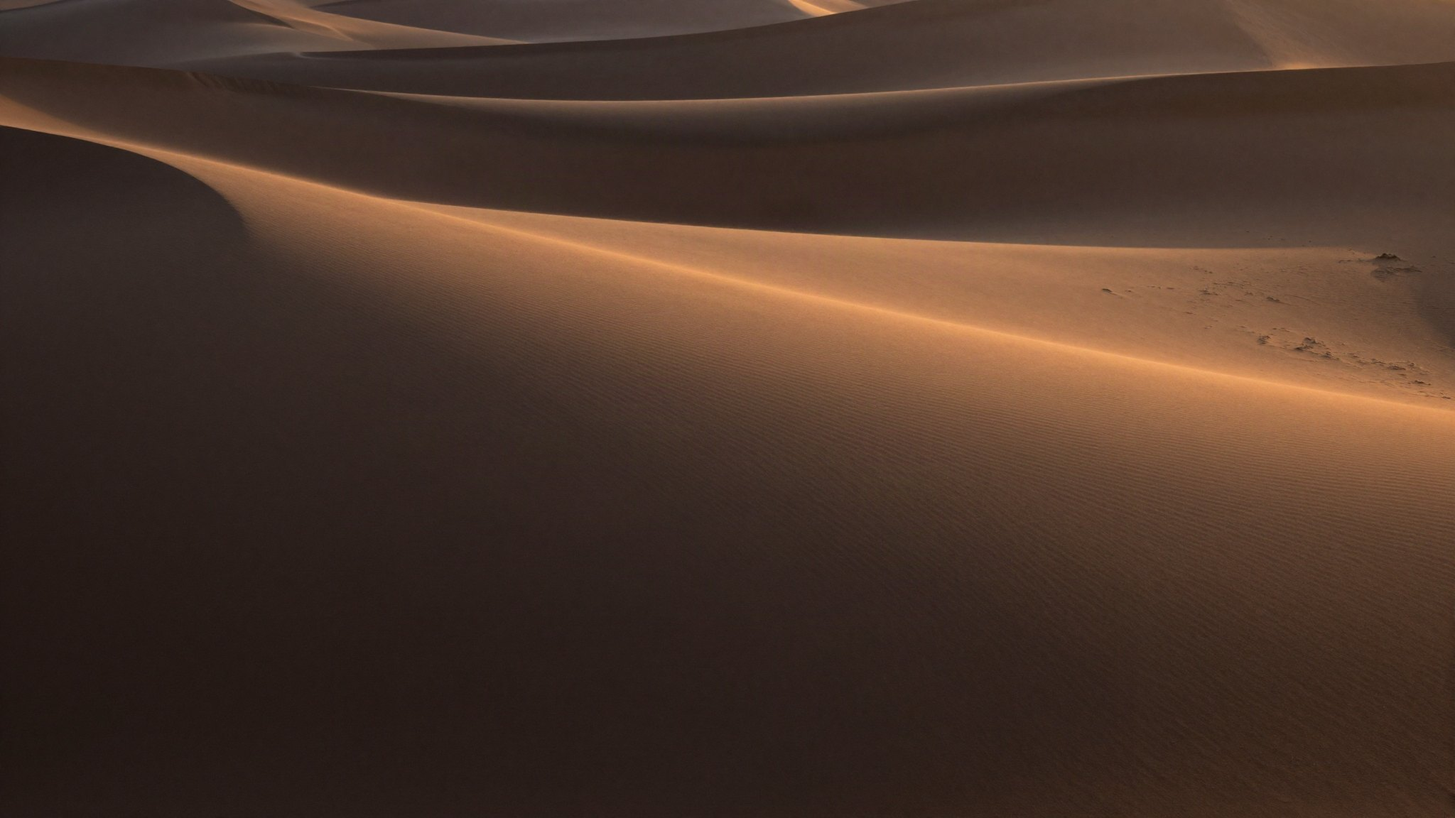
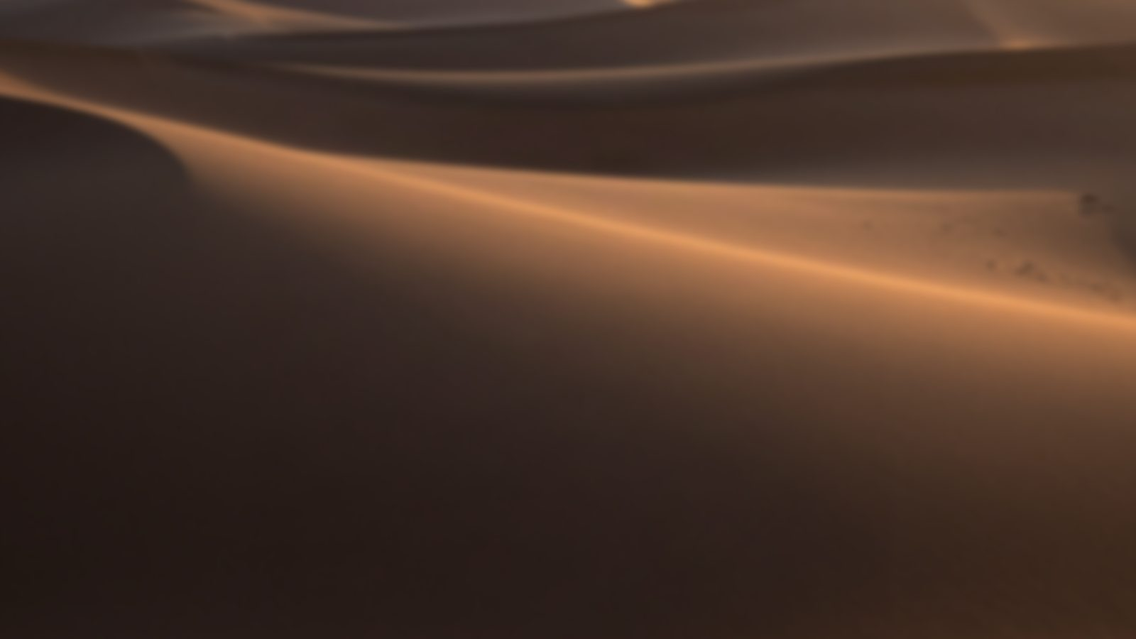
Hero motion: triggered beats instead of a 1:1 scroll scrub
The scrubbed version felt jerky: it animated clip-path, filter and
box-shadow (repainted every frame), followed the mouse wheel's 100 px
steps with no smoothing, and stretched over one and a half screens.

Now, Apple-style, the hero pins for one screen and plays two beats that
run on their own once you scroll past a threshold: "lock in" (the ink
curtain falls, the windows sink away one by one) and "clarity" (the doc
rises and lights up). Scrolling back reverses them. Only transform and
opacity animate; the wallpaper blur is baked into the image (187 KB to
35 KB). Thresholds have hysteresis so the hero never flickers.

In a trace with the same wheel scrolling, paint work dropped from 28
paints (2.5 ms) to 9 (0.4 ms).

diff --git a/site/index.html b/site/index.html
@@ -16,7 +16,7 @@
 <main>
   <section class="hero" aria-labelledby="hero-title">
     <div class="stage">
-      <div class="curtain ba" aria-hidden="true"></div>
+      <div class="curtain" aria-hidden="true"></div>
 
       <header class="nav">
         <a class="logo" href="/" aria-label="Ortus">
@@ -36,15 +36,14 @@
         <div class="actions">
           <a class="cta" id="download" href="#download"><svg viewBox="0 0 24 24" aria-hidden="true"><path fill="currentColor" d="M12.152 6.896c-.948 0-2.415-1.078-3.96-1.04-2.04.027-3.91 1.183-4.961 3.014-2.117 3.675-.546 9.103 1.519 12.09 1.013 1.454 2.208 3.09 3.792 3.039 1.52-.065 2.09-.987 3.935-.987 1.831 0 2.35.987 3.96.948 1.637-.026 2.676-1.48 3.676-2.948 1.156-1.688 1.636-3.325 1.662-3.415-.039-.013-3.182-1.221-3.22-4.857-.026-3.04 2.48-4.494 2.597-4.559-1.429-2.09-3.623-2.324-4.39-2.376-2-.156-3.675 1.09-4.61 1.09zM15.53 3.83c.843-1.012 1.4-2.427 1.245-3.83-1.207.052-2.662.805-3.532 1.818-.78.896-1.454 2.338-1.273 3.714 1.338.104 2.715-.688 3.559-1.701"></path></svg>Download for Mac</a>
           <span class="note blend">Free and open source. No account.</span>
-          <span class="cue ba" aria-hidden="true">Scroll to lock in <svg viewBox="0 0 12 12" width="12" height="12"><path d="M6 1v9M2 6.5 6 10.5 10 6.5" fill="none" stroke="currentColor" stroke-width="1.6"></path></svg></span>
+          <span class="cue" aria-hidden="true">Scroll to lock in <svg viewBox="0 0 12 12" width="12" height="12"><path d="M6 1v9M2 6.5 6 10.5 10 6.5" fill="none" stroke="currentColor" stroke-width="1.6"></path></svg></span>
         </div>
       </div>
 
       <div class="scene-box" role="img" aria-label="A Mac desktop full of Slack, Gmail, X and YouTube. As you scroll, the page goes dark, the windows close, and only the work stays open.">
         <img class="wallpaper" src="assets/wallpaper.jpg" alt="">
-        <div class="dim ba"></div>
         <div class="scene scene-desktop" aria-hidden="true">
-      <div class="ba b-w1" style="position: absolute; left: 28px; top: 34px; width: 470px; height: 360px; background: #FFFFFF; border-radius: 12px; overflow: hidden; box-shadow: 0 22px 60px rgba(0, 0, 0, 0.35); display: flex; flex-direction: column; font-family: -apple-system, BlinkMacSystemFont, system-ui, sans-serif">
+      <div class="b-w1" style="position: absolute; left: 28px; top: 34px; width: 470px; height: 360px; background: #FFFFFF; border-radius: 12px; overflow: hidden; box-shadow: 0 22px 60px rgba(0, 0, 0, 0.35); display: flex; flex-direction: column; font-family: -apple-system, BlinkMacSystemFont, system-ui, sans-serif">
       <div style="height: 30px; flex: none; display: flex; align-items: center; gap: 7px; padding: 0 12px; background: #F4F2EE; border-bottom: 1px solid rgba(28, 28, 25, 0.08)">
       <span style="width: 11px; height: 11px; border-radius: 50%; background: #FF5F57"></span><span style="width: 11px; height: 11px; border-radius: 50%; background: #FEBC2E"></span><span style="width: 11px; height: 11px; border-radius: 50%; background: #28C840"></span>
       <span style="flex: 1; text-align: center; font-size: 12px; color: #5E5C55; margin-right: 40px">Slack · Acme</span>
@@ -71,7 +70,7 @@
       </div>
       </div>
 
-      <div class="ba b-w2" style="position: absolute; left: 540px; top: 24px; width: 400px; height: 280px; background: #FFFFFF; border-radius: 12px; overflow: hidden; box-shadow: 0 22px 60px rgba(0, 0, 0, 0.35); font-family: -apple-system, BlinkMacSystemFont, system-ui, sans-serif; color: #1F1F1F">
+      <div class="b-w2" style="position: absolute; left: 540px; top: 24px; width: 400px; height: 280px; background: #FFFFFF; border-radius: 12px; overflow: hidden; box-shadow: 0 22px 60px rgba(0, 0, 0, 0.35); font-family: -apple-system, BlinkMacSystemFont, system-ui, sans-serif; color: #1F1F1F">
       <div style="height: 30px; display: flex; align-items: center; gap: 7px; padding: 0 12px; background: #F4F2EE; border-bottom: 1px solid rgba(28, 28, 25, 0.08)">
       <span style="width: 11px; height: 11px; border-radius: 50%; background: #FF5F57"></span><span style="width: 11px; height: 11px; border-radius: 50%; background: #FEBC2E"></span><span style="width: 11px; height: 11px; border-radius: 50%; background: #28C840"></span>
       <span style="flex: 1; text-align: center; font-size: 12px; color: #5E5C55; margin-right: 40px">mail.google.com</span>
@@ -89,7 +88,7 @@
       </div>
       </div>
 
-      <div class="ba b-w3" style="position: absolute; left: 976px; top: 56px; width: 340px; height: 400px; background: #FFFFFF; border-radius: 12px; overflow: hidden; box-shadow: 0 22px 60px rgba(0, 0, 0, 0.35); font-family: -apple-system, BlinkMacSystemFont, system-ui, sans-serif; color: #0F1419">
+      <div class="b-w3" style="position: absolute; left: 976px; top: 56px; width: 340px; height: 400px; background: #FFFFFF; border-radius: 12px; overflow: hidden; box-shadow: 0 22px 60px rgba(0, 0, 0, 0.35); font-family: -apple-system, BlinkMacSystemFont, system-ui, sans-serif; color: #0F1419">
       <div style="height: 30px; display: flex; align-items: center; gap: 7px; padding: 0 12px; background: #F4F2EE; border-bottom: 1px solid rgba(28, 28, 25, 0.08)">
       <span style="width: 11px; height: 11px; border-radius: 50%; background: #FF5F57"></span><span style="width: 11px; height: 11px; border-radius: 50%; background: #FEBC2E"></span><span style="width: 11px; height: 11px; border-radius: 50%; background: #28C840"></span>
       <span style="flex: 1; text-align: center; font-size: 12px; color: #5E5C55; margin-right: 40px">x.com/home</span>
@@ -106,7 +105,7 @@
       </div>
       </div>
 
-      <div class="ba b-w4" style="position: absolute; left: 400px; top: 270px; width: 440px; height: 280px; background: #0F0F0F; border-radius: 12px; overflow: hidden; box-shadow: 0 26px 70px rgba(0, 0, 0, 0.45); font-family: -apple-system, BlinkMacSystemFont, system-ui, sans-serif">
+      <div class="b-w4" style="position: absolute; left: 400px; top: 270px; width: 440px; height: 280px; background: #0F0F0F; border-radius: 12px; overflow: hidden; box-shadow: 0 26px 70px rgba(0, 0, 0, 0.45); font-family: -apple-system, BlinkMacSystemFont, system-ui, sans-serif">
       <div style="height: 30px; display: flex; align-items: center; gap: 7px; padding: 0 12px; background: #F4F2EE; border-bottom: 1px solid rgba(28, 28, 25, 0.08)">
       <span style="width: 11px; height: 11px; border-radius: 50%; background: #FF5F57"></span><span style="width: 11px; height: 11px; border-radius: 50%; background: #FEBC2E"></span><span style="width: 11px; height: 11px; border-radius: 50%; background: #28C840"></span>
       <span style="flex: 1; text-align: center; font-size: 12px; color: #5E5C55; margin-right: 40px">youtube.com/watch</span>
@@ -122,32 +121,18 @@
       </div>
       </div>
 
-      <div class="ba b-n1" style="position: absolute; left: 1002px; top: 14px; width: 322px; display: flex; gap: 10px; align-items: flex-start; padding: 10px 12px; box-sizing: border-box; background: rgba(250, 248, 244, 0.96); border-radius: 14px; box-shadow: 0 10px 30px rgba(0, 0, 0, 0.3); font-family: -apple-system, BlinkMacSystemFont, system-ui, sans-serif; color: #1C1C19">
+      <div class="b-n1" style="position: absolute; left: 1002px; top: 14px; width: 322px; display: flex; gap: 10px; align-items: flex-start; padding: 10px 12px; box-sizing: border-box; background: rgba(250, 248, 244, 0.96); border-radius: 14px; box-shadow: 0 10px 30px rgba(0, 0, 0, 0.3); font-family: -apple-system, BlinkMacSystemFont, system-ui, sans-serif; color: #1C1C19">
       <div style="width: 30px; height: 30px; flex: none; border-radius: 7px; background: #FFFFFF; border: 1px solid #ECEAE6; display: flex; align-items: center; justify-content: center"><svg viewBox="0 0 24 24" width="17" height="17" role="img" aria-label="Slack"><path fill="#4A154B" d="M5.042 15.165a2.528 2.528 0 0 1-2.52 2.523A2.528 2.528 0 0 1 0 15.165a2.527 2.527 0 0 1 2.522-2.52h2.52v2.52zM6.313 15.165a2.527 2.527 0 0 1 2.521-2.52 2.527 2.527 0 0 1 2.521 2.52v6.313A2.528 2.528 0 0 1 8.834 24a2.528 2.528 0 0 1-2.521-2.522v-6.313zM8.834 5.042a2.528 2.528 0 0 1-2.521-2.52A2.528 2.528 0 0 1 8.834 0a2.528 2.528 0 0 1 2.521 2.522v2.52H8.834zM8.834 6.313a2.528 2.528 0 0 1 2.521 2.521 2.528 2.528 0 0 1-2.521 2.521H2.522A2.528 2.528 0 0 1 0 8.834a2.528 2.528 0 0 1 2.522-2.521h6.312zM18.956 8.834a2.528 2.528 0 0 1 2.522-2.521A2.528 2.528 0 0 1 24 8.834a2.528 2.528 0 0 1-2.522 2.521h-2.522V8.834zM17.688 8.834a2.528 2.528 0 0 1-2.523 2.521 2.527 2.527 0 0 1-2.52-2.521V2.522A2.527 2.527 0 0 1 15.165 0a2.528 2.528 0 0 1 2.523 2.522v6.312zM15.165 18.956a2.528 2.528 0 0 1 2.523 2.522A2.528 2.528 0 0 1 15.165 24a2.527 2.527 0 0 1-2.52-2.522v-2.522h2.52zM15.165 17.688a2.527 2.527 0 0 1-2.52-2.523 2.526 2.526 0 0 1 2.52-2.52h6.313A2.527 2.527 0 0 1 24 15.165a2.528 2.528 0 0 1-2.522 2.523h-6.313z"></path></svg></div>
       <div style="flex: 1; font-size: 13px; line-height: 1.35"><div style="display: flex; justify-content: space-between"><b>Luca</b><span style="font-size: 11px; color: #8A8780">now</span></div>you there?</div>
       </div>
-      <div class="ba b-n2" style="position: absolute; left: 1002px; top: 84px; width: 322px; display: flex; gap: 10px; align-items: flex-start; padding: 10px 12px; box-sizing: border-box; background: rgba(250, 248, 244, 0.96); border-radius: 14px; box-shadow: 0 10px 30px rgba(0, 0, 0, 0.3); font-family: -apple-system, BlinkMacSystemFont, system-ui, sans-serif; color: #1C1C19">
+      <div class="b-n2" style="position: absolute; left: 1002px; top: 84px; width: 322px; display: flex; gap: 10px; align-items: flex-start; padding: 10px 12px; box-sizing: border-box; background: rgba(250, 248, 244, 0.96); border-radius: 14px; box-shadow: 0 10px 30px rgba(0, 0, 0, 0.3); font-family: -apple-system, BlinkMacSystemFont, system-ui, sans-serif; color: #1C1C19">
       <div style="width: 30px; height: 30px; flex: none; border-radius: 7px; background: #FFFFFF; border: 1px solid #ECEAE6; display: flex; align-items: center; justify-content: center"><svg viewBox="0 0 24 24" width="17" height="17" role="img" aria-label="Gmail"><path fill="#EA4335" d="M24 5.457v13.909c0 .904-.732 1.636-1.636 1.636h-3.819V11.73L12 16.64l-6.545-4.91v9.273H1.636A1.636 1.636 0 0 1 0 19.366V5.457c0-2.023 2.309-3.178 3.927-1.964L5.455 4.64 12 9.548l6.545-4.91 1.528-1.145C21.69 2.28 24 3.434 24 5.457z"></path></svg></div>
       <div style="flex: 1; font-size: 13px; line-height: 1.35"><div style="display: flex; justify-content: space-between"><b>Anna Keller</b><span style="font-size: 11px; color: #8A8780">now</span></div>Re: Q4 plan, need your input today</div>
       </div>
-
-      <div class="ba b-work" style="position: absolute; left: 292px; top: 40px; width: 760px; height: 470px; background: #F2EEE8; color: #1C1C19; border-radius: 12px; overflow: hidden; box-shadow: 0 30px 80px rgba(0, 0, 0, 0.5); opacity: 0">
-      <div style="height: 30px; display: flex; align-items: center; gap: 7px; padding: 0 12px; background: #E3DED5">
-      <span style="width: 11px; height: 11px; border-radius: 50%; background: #FF5F57"></span><span style="width: 11px; height: 11px; border-radius: 50%; background: #FEBC2E"></span><span style="width: 11px; height: 11px; border-radius: 50%; background: #28C840"></span>
-      <span style="flex: 1; text-align: center; font-size: 12px; color: #5E5C55; margin-right: 40px">activation-plan.md</span>
-      </div>
-      <div style="padding: 34px 48px; display: flex; flex-direction: column; gap: 14px; font-size: 16px; line-height: 1.6">
-      <div style="font-family: 'Archivo Black', Archivo, sans-serif; font-size: 28px; line-height: 1.1; letter-spacing: -0.03em">Fix activation before Q1</div>
-      <div>42% of new signups never finish setup. Everything else on the roadmap waits until that number moves.</div>
-      <div style="font-weight: 700; font-size: 18px; margin-top: 6px">This week</div>
-      <div>Cut setup from six steps to two. Ship the import flow. Kill the empty dashboard.</div>
-      <div>Draft to the team by Thursday.<span style="display: inline-block; width: 2px; height: 20px; margin-left: 2px; vertical-align: -4px; background: #1C1C19"></span></div>
-      </div>
-      </div>
-
         </div>
+        
         <div class="scene scene-mobile" aria-hidden="true">
-      <div class="ba b-w1" style="position: absolute; left: 10px; top: 46px; width: 236px; height: 196px; background: #FFFFFF; border-radius: 10px; overflow: hidden; box-shadow: 0 16px 40px rgba(0, 0, 0, 0.35); display: flex; flex-direction: column; font-family: -apple-system, BlinkMacSystemFont, system-ui, sans-serif">
+      <div class="b-w1" style="position: absolute; left: 10px; top: 46px; width: 236px; height: 196px; background: #FFFFFF; border-radius: 10px; overflow: hidden; box-shadow: 0 16px 40px rgba(0, 0, 0, 0.35); display: flex; flex-direction: column; font-family: -apple-system, BlinkMacSystemFont, system-ui, sans-serif">
       <div style="height: 22px; flex: none; display: flex; align-items: center; gap: 5px; padding: 0 9px; background: #F4F2EE"><span style="width: 8px; height: 8px; border-radius: 50%; background: #FF5F57"></span><span style="width: 8px; height: 8px; border-radius: 50%; background: #FEBC2E"></span><span style="width: 8px; height: 8px; border-radius: 50%; background: #28C840"></span></div>
       <div style="flex: 1; display: flex; min-height: 0">
       <div style="width: 74px; flex: none; background: #4A154B; color: rgba(255, 255, 255, 0.72); padding: 9px 7px; box-sizing: border-box; display: flex; flex-direction: column; gap: 6px; font-size: 10px">
@@ -164,7 +149,7 @@
       </div>
       </div>
 
-      <div class="ba b-w2" style="position: absolute; left: 132px; top: 26px; width: 224px; height: 150px; background: #FFFFFF; border-radius: 10px; overflow: hidden; box-shadow: 0 16px 40px rgba(0, 0, 0, 0.35); font-family: -apple-system, BlinkMacSystemFont, system-ui, sans-serif; color: #1F1F1F">
+      <div class="b-w2" style="position: absolute; left: 132px; top: 26px; width: 224px; height: 150px; background: #FFFFFF; border-radius: 10px; overflow: hidden; box-shadow: 0 16px 40px rgba(0, 0, 0, 0.35); font-family: -apple-system, BlinkMacSystemFont, system-ui, sans-serif; color: #1F1F1F">
       <div style="height: 22px; display: flex; align-items: center; gap: 5px; padding: 0 9px; background: #F4F2EE"><span style="width: 8px; height: 8px; border-radius: 50%; background: #FF5F57"></span><span style="width: 8px; height: 8px; border-radius: 50%; background: #FEBC2E"></span><span style="width: 8px; height: 8px; border-radius: 50%; background: #28C840"></span></div>
       <div style="display: flex; align-items: center; gap: 6px; padding: 7px 10px; font-size: 11px"><svg viewBox="0 0 24 24" width="14" height="14" role="img" aria-label="Gmail"><path fill="#EA4335" d="M24 5.457v13.909c0 .904-.732 1.636-1.636 1.636h-3.819V11.73L12 16.64l-6.545-4.91v9.273H1.636A1.636 1.636 0 0 1 0 19.366V5.457c0-2.023 2.309-3.178 3.927-1.964L5.455 4.64 12 9.548l6.545-4.91 1.528-1.145C21.69 2.28 24 3.434 24 5.457z"></path></svg><b>Inbox</b><span style="background: #D3E3FD; border-radius: 7px; padding: 0 5px; font-size: 10px; font-weight: 700">1,284</span></div>
       <div style="font-size: 10.5px">
@@ -174,7 +159,7 @@
       </div>
       </div>
 
-      <div class="ba b-w3" style="position: absolute; left: 172px; top: 198px; width: 184px; height: 240px; background: #FFFFFF; border-radius: 10px; overflow: hidden; box-shadow: 0 16px 40px rgba(0, 0, 0, 0.35); font-family: -apple-system, BlinkMacSystemFont, system-ui, sans-serif; color: #0F1419">
+      <div class="b-w3" style="position: absolute; left: 172px; top: 198px; width: 184px; height: 240px; background: #FFFFFF; border-radius: 10px; overflow: hidden; box-shadow: 0 16px 40px rgba(0, 0, 0, 0.35); font-family: -apple-system, BlinkMacSystemFont, system-ui, sans-serif; color: #0F1419">
       <div style="height: 22px; display: flex; align-items: center; gap: 5px; padding: 0 9px; background: #F4F2EE"><span style="width: 8px; height: 8px; border-radius: 50%; background: #FF5F57"></span><span style="width: 8px; height: 8px; border-radius: 50%; background: #FEBC2E"></span><span style="width: 8px; height: 8px; border-radius: 50%; background: #28C840"></span></div>
       <div style="display: flex; align-items: center; gap: 7px; padding: 8px 10px 0"><svg viewBox="0 0 24 24" width="13" height="13" role="img" aria-label="X"><path fill="#0F1419" d="M18.901 1.153h3.68l-8.04 9.19L24 22.846h-7.406l-5.8-7.584-6.638 7.584H.474l8.6-9.83L0 1.154h7.594l5.243 6.932ZM17.61 20.644h2.039L6.486 3.24H4.298Z"></path></svg><b style="font-size: 12px">Home</b></div>
       <div style="padding: 7px; margin-top: 6px; text-align: center; color: #1D9BF0; font-size: 11px; border-top: 1px solid #EFF3F4; border-bottom: 1px solid #EFF3F4">Show 48 posts</div>
@@ -183,7 +168,7 @@
       <div style="display: flex; gap: 7px; padding: 8px 10px; font-size: 10.5px; line-height: 1.35"><div style="width: 24px; height: 24px; flex: none; border-radius: 50%; background: #B7C4A8"></div><div><b>the build guy</b> You don't need focus. You need better notifications.</div></div>
       </div>
 
-      <div class="ba b-w4" style="position: absolute; left: 16px; top: 262px; width: 214px; height: 150px; background: #0F0F0F; border-radius: 10px; overflow: hidden; box-shadow: 0 18px 46px rgba(0, 0, 0, 0.45); font-family: -apple-system, BlinkMacSystemFont, system-ui, sans-serif">
+      <div class="b-w4" style="position: absolute; left: 16px; top: 262px; width: 214px; height: 150px; background: #0F0F0F; border-radius: 10px; overflow: hidden; box-shadow: 0 18px 46px rgba(0, 0, 0, 0.45); font-family: -apple-system, BlinkMacSystemFont, system-ui, sans-serif">
       <div style="height: 22px; display: flex; align-items: center; gap: 5px; padding: 0 9px; background: #F4F2EE"><span style="width: 8px; height: 8px; border-radius: 50%; background: #FF5F57"></span><span style="width: 8px; height: 8px; border-radius: 50%; background: #FEBC2E"></span><span style="width: 8px; height: 8px; border-radius: 50%; background: #28C840"></span></div>
       <div style="position: relative; height: 98px; overflow: hidden; background: linear-gradient(135deg, #3A3836 0%, #1A1918 100%); display: flex; align-items: center; justify-content: center">
       <svg viewBox="0 0 24 24" width="34" height="34" role="img" aria-label="Play on YouTube" style="position: relative"><path fill="#FF0000" d="M23.498 6.186a3.016 3.016 0 0 0-2.122-2.136C19.505 3.545 12 3.545 12 3.545s-7.505 0-9.377.505A3.017 3.017 0 0 0 .502 6.186C0 8.07 0 12 0 12s0 3.93.502 5.814a3.016 3.016 0 0 0 2.122 2.136c1.871.505 9.376.505 9.376.505s7.505 0 9.377-.505a3.015 3.015 0 0 0 2.122-2.136C24 15.93 24 12 24 12s0-3.93-.502-5.814zM9.545 15.568V8.432L15.818 12l-6.273 3.568z"></path><path fill="#FFFFFF" d="M9.545 15.568V8.432L15.818 12z"></path></svg>
@@ -192,16 +177,36 @@
       <div style="padding: 6px 9px; color: #F1F1F1; font-size: 10.5px; font-weight: 700; line-height: 1.3">I tried 30 productivity apps so you don't have to</div>
       </div>
 
-      <div class="ba b-n1" style="position: absolute; left: 34px; top: 8px; width: 300px; display: flex; gap: 8px; align-items: flex-start; padding: 8px 10px; box-sizing: border-box; background: rgba(250, 248, 244, 0.96); border-radius: 12px; box-shadow: 0 10px 26px rgba(0, 0, 0, 0.3); font-family: -apple-system, BlinkMacSystemFont, system-ui, sans-serif; color: #1C1C19">
+      <div class="b-n1" style="position: absolute; left: 34px; top: 8px; width: 300px; display: flex; gap: 8px; align-items: flex-start; padding: 8px 10px; box-sizing: border-box; background: rgba(250, 248, 244, 0.96); border-radius: 12px; box-shadow: 0 10px 26px rgba(0, 0, 0, 0.3); font-family: -apple-system, BlinkMacSystemFont, system-ui, sans-serif; color: #1C1C19">
       <div style="width: 24px; height: 24px; flex: none; border-radius: 6px; background: #FFFFFF; border: 1px solid #ECEAE6; display: flex; align-items: center; justify-content: center"><svg viewBox="0 0 24 24" width="13" height="13" role="img" aria-label="Slack"><path fill="#4A154B" d="M5.042 15.165a2.528 2.528 0 0 1-2.52 2.523A2.528 2.528 0 0 1 0 15.165a2.527 2.527 0 0 1 2.522-2.52h2.52v2.52zM6.313 15.165a2.527 2.527 0 0 1 2.521-2.52 2.527 2.527 0 0 1 2.521 2.52v6.313A2.528 2.528 0 0 1 8.834 24a2.528 2.528 0 0 1-2.521-2.522v-6.313zM8.834 5.042a2.528 2.528 0 0 1-2.521-2.52A2.528 2.528 0 0 1 8.834 0a2.528 2.528 0 0 1 2.521 2.522v2.52H8.834zM8.834 6.313a2.528 2.528 0 0 1 2.521 2.521 2.528 2.528 0 0 1-2.521 2.521H2.522A2.528 2.528 0 0 1 0 8.834a2.528 2.528 0 0 1 2.522-2.521h6.312zM18.956 8.834a2.528 2.528 0 0 1 2.522-2.521A2.528 2.528 0 0 1 24 8.834a2.528 2.528 0 0 1-2.522 2.521h-2.522V8.834zM17.688 8.834a2.528 2.528 0 0 1-2.523 2.521 2.527 2.527 0 0 1-2.52-2.521V2.522A2.527 2.527 0 0 1 15.165 0a2.528 2.528 0 0 1 2.523 2.522v6.312zM15.165 18.956a2.528 2.528 0 0 1 2.523 2.522A2.528 2.528 0 0 1 15.165 24a2.527 2.527 0 0 1-2.52-2.522v-2.522h2.52zM15.165 17.688a2.527 2.527 0 0 1-2.52-2.523 2.526 2.526 0 0 1 2.52-2.52h6.313A2.527 2.527 0 0 1 24 15.165a2.528 2.528 0 0 1-2.522 2.523h-6.313z"></path></svg></div>
       <div style="flex: 1; font-size: 11.5px; line-height: 1.3"><div style="display: flex; justify-content: space-between"><b>Luca</b><span style="font-size: 10px; color: #8A8780">now</span></div>you there?</div>
       </div>
-      <div class="ba b-n2" style="position: absolute; left: 34px; top: 60px; width: 300px; display: flex; gap: 8px; align-items: flex-start; padding: 8px 10px; box-sizing: border-box; background: rgba(250, 248, 244, 0.96); border-radius: 12px; box-shadow: 0 10px 26px rgba(0, 0, 0, 0.3); font-family: -apple-system, BlinkMacSystemFont, system-ui, sans-serif; color: #1C1C19">
+      <div class="b-n2" style="position: absolute; left: 34px; top: 60px; width: 300px; display: flex; gap: 8px; align-items: flex-start; padding: 8px 10px; box-sizing: border-box; background: rgba(250, 248, 244, 0.96); border-radius: 12px; box-shadow: 0 10px 26px rgba(0, 0, 0, 0.3); font-family: -apple-system, BlinkMacSystemFont, system-ui, sans-serif; color: #1C1C19">
       <div style="width: 24px; height: 24px; flex: none; border-radius: 6px; background: #FFFFFF; border: 1px solid #ECEAE6; display: flex; align-items: center; justify-content: center"><svg viewBox="0 0 24 24" width="13" height="13" role="img" aria-label="Gmail"><path fill="#EA4335" d="M24 5.457v13.909c0 .904-.732 1.636-1.636 1.636h-3.819V11.73L12 16.64l-6.545-4.91v9.273H1.636A1.636 1.636 0 0 1 0 19.366V5.457c0-2.023 2.309-3.178 3.927-1.964L5.455 4.64 12 9.548l6.545-4.91 1.528-1.145C21.69 2.28 24 3.434 24 5.457z"></path></svg></div>
       <div style="flex: 1; font-size: 11.5px; line-height: 1.3"><div style="display: flex; justify-content: space-between"><b>Anna Keller</b><span style="font-size: 10px; color: #8A8780">now</span></div>Re: Q4 plan, need your input today</div>
       </div>
-
-      <div class="ba b-work" style="position: absolute; left: 16px; top: 34px; width: 334px; height: 360px; background: #F2EEE8; color: #1C1C19; border-radius: 10px; overflow: hidden; opacity: 0">
+        </div>
+        
+        <div class="dim"></div>
+        <div class="scene scene-desktop front" aria-hidden="true">
+          <div class="b-glow" style="position: absolute; left: 292px; top: 40px; width: 760px; height: 470px; border-radius: 12px"></div>
+          <div class="b-work" style="position: absolute; left: 292px; top: 40px; width: 760px; height: 470px; background: #F2EEE8; color: #1C1C19; border-radius: 12px; overflow: hidden; box-shadow: 0 30px 80px rgba(0, 0, 0, 0.5);">
+      <div style="height: 30px; display: flex; align-items: center; gap: 7px; padding: 0 12px; background: #E3DED5">
+      <span style="width: 11px; height: 11px; border-radius: 50%; background: #FF5F57"></span><span style="width: 11px; height: 11px; border-radius: 50%; background: #FEBC2E"></span><span style="width: 11px; height: 11px; border-radius: 50%; background: #28C840"></span>
+      <span style="flex: 1; text-align: center; font-size: 12px; color: #5E5C55; margin-right: 40px">activation-plan.md</span>
+      </div>
+      <div style="padding: 34px 48px; display: flex; flex-direction: column; gap: 14px; font-size: 16px; line-height: 1.6">
+      <div style="font-family: 'Archivo Black', Archivo, sans-serif; font-size: 28px; line-height: 1.1; letter-spacing: -0.03em">Fix activation before Q1</div>
+      <div>42% of new signups never finish setup. Everything else on the roadmap waits until that number moves.</div>
+      <div style="font-weight: 700; font-size: 18px; margin-top: 6px">This week</div>
+      <div>Cut setup from six steps to two. Ship the import flow. Kill the empty dashboard.</div>
+      <div>Draft to the team by Thursday.<span style="display: inline-block; width: 2px; height: 20px; margin-left: 2px; vertical-align: -4px; background: #1C1C19"></span></div>
+      </div>
+      </div>
+        </div>
+        <div class="scene scene-mobile front" aria-hidden="true">
+          <div class="b-glow" style="position: absolute; left: 16px; top: 34px; width: 334px; height: 360px; border-radius: 10px"></div>
+          <div class="b-work" style="position: absolute; left: 16px; top: 34px; width: 334px; height: 360px; background: #F2EEE8; color: #1C1C19; border-radius: 10px; overflow: hidden;">
       <div style="height: 24px; display: flex; align-items: center; gap: 5px; padding: 0 9px; background: #E3DED5"><span style="width: 8px; height: 8px; border-radius: 50%; background: #FF5F57"></span><span style="width: 8px; height: 8px; border-radius: 50%; background: #FEBC2E"></span><span style="width: 8px; height: 8px; border-radius: 50%; background: #28C840"></span><span style="flex: 1; text-align: center; font-size: 10px; color: #5E5C55; margin-right: 26px">activation-plan.md</span></div>
       <div style="padding: 20px 22px; display: flex; flex-direction: column; gap: 10px; font-size: 13px; line-height: 1.55">
       <div style="font-family: 'Archivo Black', Archivo, sans-serif; font-size: 20px; line-height: 1.1; letter-spacing: -0.03em">Fix activation before Q1</div>
@@ -211,7 +216,6 @@
       <div>Draft to the team by Thursday.<span style="display: inline-block; width: 2px; height: 16px; margin-left: 2px; vertical-align: -3px; background: #1C1C19"></span></div>
       </div>
       </div>
-
         </div>
       </div>
     </div>

diff --git a/site/styles.css b/site/styles.css
@@ -20,12 +20,12 @@ a { color: inherit; text-decoration: none; }
 a:focus-visible { outline: 3px solid var(--persimmon); outline-offset: 3px; border-radius: 6px; }
 
 /* ---------- Hero: one tall section, the stage sticks while the page scrolls ---------- */
-.hero { height: 250vh; view-timeline: --hero block; }
+.hero { height: 200vh; }
 .stage {
   position: sticky; top: 0; height: 100vh; height: 100svh; overflow: clip;
   display: flex; flex-direction: column; background: var(--bone);
 }
-.curtain { position: absolute; inset: 0; background: var(--ink); clip-path: inset(0 0 100% 0); }
+.curtain { position: absolute; inset: 0; background: var(--ink); }
 
 /* Text flips from ink to bone exactly where the curtain edge passes. */
 .blend { mix-blend-mode: difference; }
@@ -63,8 +63,8 @@ a:focus-visible { outline: 3px solid var(--persimmon); outline-offset: 3px; bord
   margin: clamp(24px, 4.6vh, 42px) var(--scene-gutter) 0;
   border-radius: 18px 18px 0 0; background: #2B2621; box-shadow: 0 30px 80px rgba(28, 28, 25, 0.22);
 }
-.wallpaper { position: absolute; inset: -24px; width: calc(100% + 48px); height: calc(100% + 48px); object-fit: cover; filter: blur(6px); }
-.dim { position: absolute; inset: 0; background: #000; opacity: 0; }
+.wallpaper { position: absolute; inset: 0; width: 100%; height: 100%; object-fit: cover; }
+.dim { position: absolute; inset: 0; background: #000; }
 .scene { position: absolute; left: 0; top: 0; transform-origin: top left; transform: scale(var(--s, 1)); }
 .scene-desktop { width: 1344px; height: 560px; }
 .scene-mobile { width: 366px; height: 460px; display: none; }
@@ -87,39 +87,48 @@ a:focus-visible { outline: 3px solid var(--persimmon); outline-offset: 3px; bord
   .scene-mobile { display: block; }
 }
 
-/* ---------- Motion: page scroll drives one timeline, 0% clutter, 100% clarity ---------- */
-.ba {
-  animation-duration: auto; animation-timing-function: linear; animation-fill-mode: both;
-  animation-timeline: --hero; animation-range: contain 0% contain 100%;
+/* ---------- Motion: two triggered beats inside a short pin ----------
+   Apple-style: scrolling into the pin does nothing at first, then a beat plays
+   on its own with easing. hero.js sets data-beat on .stage:
+   0 = clutter, 1 = "lock in" (curtain falls, windows go), 2 = "clarity" (the doc rises).
+   Only transform and opacity animate, so the GPU does the work. Scrolling back reverses. */
+:root {
+  --ease-in-out: cubic-bezier(.65, 0, .35, 1);
+  --ease-out: cubic-bezier(.16, 1, .3, 1);
+  --ease-in: cubic-bezier(.5, 0, .75, 0);
 }
-/* Browsers without scroll-driven animations: hero.js sets --p from the scroll position. */
-@supports not (animation-timeline: view()) {
-  .ba { animation-duration: 1s; animation-play-state: paused; animation-delay: calc(var(--p, 0) * -0.999s); }
-}
-@media (prefers-reduced-motion: reduce) { .ba { animation: none !important; } }
+.curtain, .b-w1, .b-w2, .b-w3, .b-w4, .b-n1, .b-n2, .b-work, .b-glow, .dim, .cue { will-change: transform, opacity; }
 
-.curtain { animation-name: bCurtain; }
-.dim { animation-name: bDim; }
-.cue { animation-name: bCue; }
-.b-n1 { animation-name: bN1; }
-.b-n2 { animation-name: bN2; }
-.b-w1 { animation-name: bW1; }
-.b-w2 { animation-name: bW2; }
-.b-w3 { animation-name: bW3; }
-.b-w4 { animation-name: bW4; }
-.b-work { animation-name: bWork, bGlow; }
+/* Reverse (back to clutter): quick, together. */
+.curtain { transform: translateY(-101%); transition: transform .45s var(--ease-in-out); }
+.dim { opacity: 0; transition: opacity .4s ease; }
+.cue { transition: opacity .25s ease; }
+.b-n1, .b-n2, .b-w1, .b-w2, .b-w3, .b-w4 { transition: opacity .35s ease, transform .45s var(--ease-out); }
+.b-work { opacity: 0; transform: translateY(24px); box-shadow: 0 30px 80px rgba(0, 0, 0, .5); transition: opacity .3s ease, transform .3s ease; }
+.b-glow { opacity: 0; box-shadow: 0 0 0 1px rgba(254, 112, 28, .55), 0 0 90px rgba(254, 112, 28, .28); transition: opacity .3s ease; }
 
-@keyframes bCurtain { 0%, 22% { clip-path: inset(0 0 100% 0); } 56%, 100% { clip-path: inset(0 0 0 0); } }
-@keyframes bDim { 0%, 37% { opacity: 0; } 61%, 100% { opacity: .85; } }
-@keyframes bCue { 0%, 5% { opacity: 1; } 12%, 100% { opacity: 0; } }
-@keyframes bN1 { 0%, 5% { opacity: 1; transform: none; } 15%, 100% { opacity: 0; transform: translateY(-16px); } }
-@keyframes bN2 { 0%, 7% { opacity: 1; transform: none; } 17%, 100% { opacity: 0; transform: translateY(-16px); } }
-@keyframes bW1 { 0%, 29% { opacity: 1; transform: none; filter: brightness(1); } 46%, 100% { opacity: 0; transform: translateY(46px) scale(.96); filter: brightness(.2); } }
-@keyframes bW2 { 0%, 33% { opacity: 1; transform: none; filter: brightness(1); } 50%, 100% { opacity: 0; transform: translateY(46px) scale(.96); filter: brightness(.2); } }
-@keyframes bW3 { 0%, 37% { opacity: 1; transform: none; filter: brightness(1); } 54%, 100% { opacity: 0; transform: translateY(46px) scale(.96); filter: brightness(.2); } }
-@keyframes bW4 { 0%, 40% { opacity: 1; transform: none; filter: brightness(1); } 57%, 100% { opacity: 0; transform: translateY(46px) scale(.96); filter: brightness(.2); } }
-@keyframes bWork { 0%, 61% { opacity: 0; transform: translateY(24px); } 78%, 100% { opacity: 1; transform: none; } }
-@keyframes bGlow {
-  0%, 68% { box-shadow: 0 30px 80px rgba(0,0,0,.5), 0 0 0 1px rgba(254,112,28,0), 0 0 0 rgba(254,112,28,0); }
-  88%, 100% { box-shadow: 0 30px 80px rgba(0,0,0,.5), 0 0 0 1px rgba(254,112,28,.55), 0 0 90px rgba(254,112,28,.28); }
+/* Beat 1: lock in. */
+[data-beat] .curtain { transition: transform .8s var(--ease-in-out); }
+[data-beat="1"] .curtain, [data-beat="2"] .curtain { transform: none; }
+[data-beat="1"] .cue, [data-beat="2"] .cue { opacity: 0; }
+[data-beat="1"] .dim, [data-beat="2"] .dim { opacity: .85; transition: opacity .9s ease .25s; }
+[data-beat="1"] :is(.b-n1, .b-n2), [data-beat="2"] :is(.b-n1, .b-n2) { opacity: 0; transform: translateY(-16px); transition: opacity .3s ease, transform .4s var(--ease-out); }
+[data-beat="1"] .b-n2, [data-beat="2"] .b-n2 { transition-delay: .06s; }
+[data-beat="1"] :is(.b-w1, .b-w2, .b-w3, .b-w4), [data-beat="2"] :is(.b-w1, .b-w2, .b-w3, .b-w4) {
+  opacity: 0; transform: translateY(46px) scale(.96);
+  transition: opacity .45s ease, transform .55s var(--ease-in);
 }
+[data-beat] .b-w1 { transition-delay: .15s; }
+[data-beat] .b-w2 { transition-delay: .24s; }
+[data-beat] .b-w3 { transition-delay: .33s; }
+[data-beat] .b-w4 { transition-delay: .42s; }
+[data-beat="0"] :is(.b-w1, .b-w2, .b-w3, .b-w4, .b-n2) { transition-delay: 0s; }
+
+/* Beat 2: clarity. */
+[data-beat="2"] .b-work { opacity: 1; transform: none; transition: opacity .5s ease, transform .9s var(--ease-out); }
+[data-beat="2"] .b-glow { opacity: 1; transition: opacity 1.2s ease .35s; }
+
+@media (prefers-reduced-motion: reduce) {
+  .stage *, .stage { transition-duration: 0s !important; transition-delay: 0s !important; }
+}
+[data-beat="0"] .curtain { transition-duration: .45s; }

diff --git a/site/hero.js b/site/hero.js
@@ -1,5 +1,8 @@
-// Fits the window mock-ups to their box, and drives the hero motion from the
-// scroll position in browsers without CSS scroll-driven animations.
+// Fits the window mock-ups to their box, and moves the hero through its beats
+// as you scroll the pinned section: 0 = clutter, 1 = lock in, 2 = clarity.
+// Each beat plays on its own once its scroll threshold is crossed (CSS does the
+// motion), and the thresholds going back are lower than going forward, so the
+// hero never flickers between beats around one scroll position.
 (() => {
   const box = document.querySelector('.scene-box');
   const phone = matchMedia('(max-width: 719px)');
@@ -7,13 +10,38 @@
   new ResizeObserver(fit).observe(box);
   fit();
 
-  if (CSS.supports('animation-timeline: view()')) return;
   const hero = document.querySelector('.hero');
-  const update = () => {
-    const r = hero.getBoundingClientRect();
-    const p = Math.min(1, Math.max(0, -r.top / (r.height - innerHeight)));
-    document.documentElement.style.setProperty('--p', p.toFixed(4));
+  const stage = document.querySelector('.stage');
+  const FORWARD = [0.06, 0.38]; // share of a screen scrolled into the pin to start beat 1, beat 2
+  const BACK = [0.03, 0.28];    // ...and to return from it
+  const GAP = 900;              // ms beat 1 gets before beat 2 may start
+  let beat = 0, beat1At = 0, timer = 0;
+
+  const set = (next) => {
+    if (next === beat) return;
+    if (next === 2 && beat === 1 && performance.now() - beat1At < GAP) {
+      clearTimeout(timer);
+      timer = setTimeout(update, GAP - (performance.now() - beat1At));
+      return;
+    }
+    if (next === 2 && beat === 0) { set(1); return void (timer = setTimeout(update, GAP)); }
+    clearTimeout(timer);
+    if (next === 1 && beat === 0) beat1At = performance.now();
+    beat = next;
+    stage.dataset.beat = String(beat);
   };
+
+  function update() {
+    const y = -hero.getBoundingClientRect().top / innerHeight;
+    let next = beat;
+    if (next < 1 && y >= FORWARD[0]) next = 1;
+    if (next >= 1 && y >= FORWARD[1]) next = 2;
+    if (next === 2 && y < BACK[1]) next = 1;
+    if (next >= 1 && y < BACK[0]) next = 0;
+    set(next);
+  }
+
+  stage.dataset.beat = '0';
   addEventListener('scroll', update, { passive: true });
   addEventListener('resize', update);
   update();
